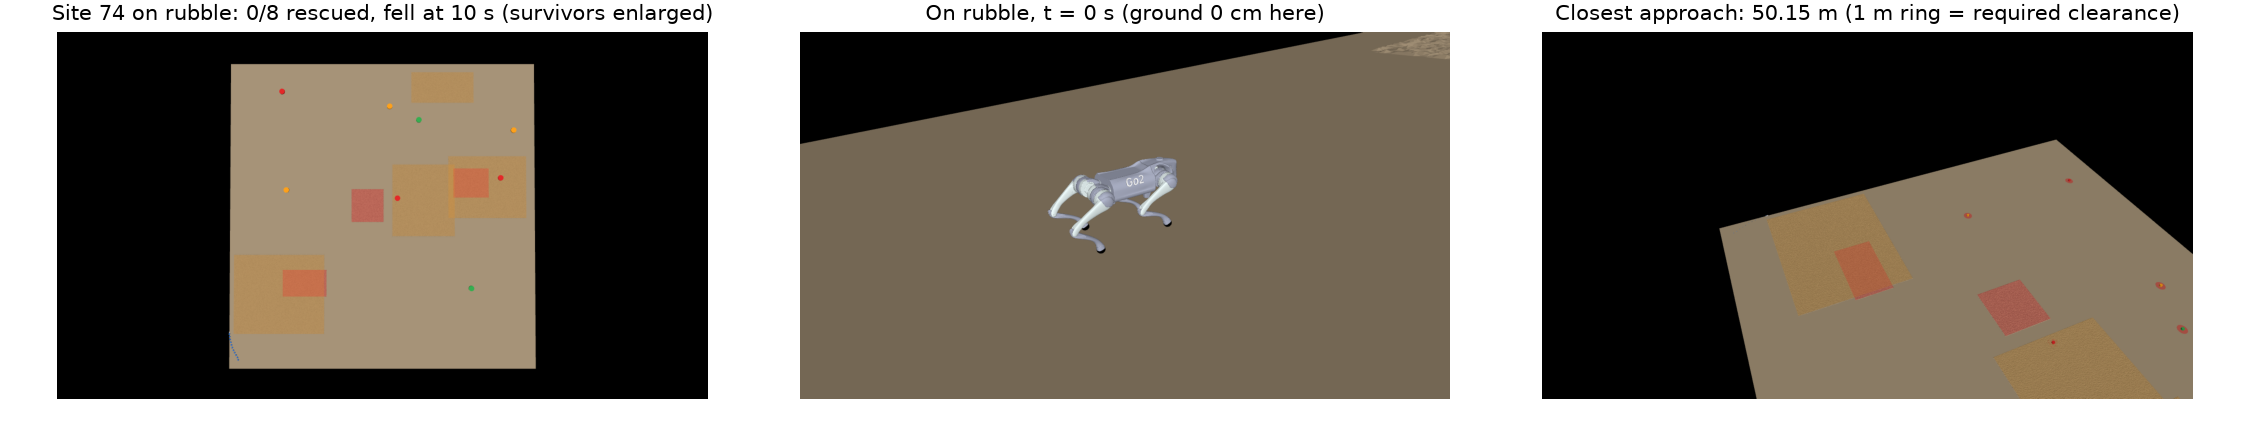
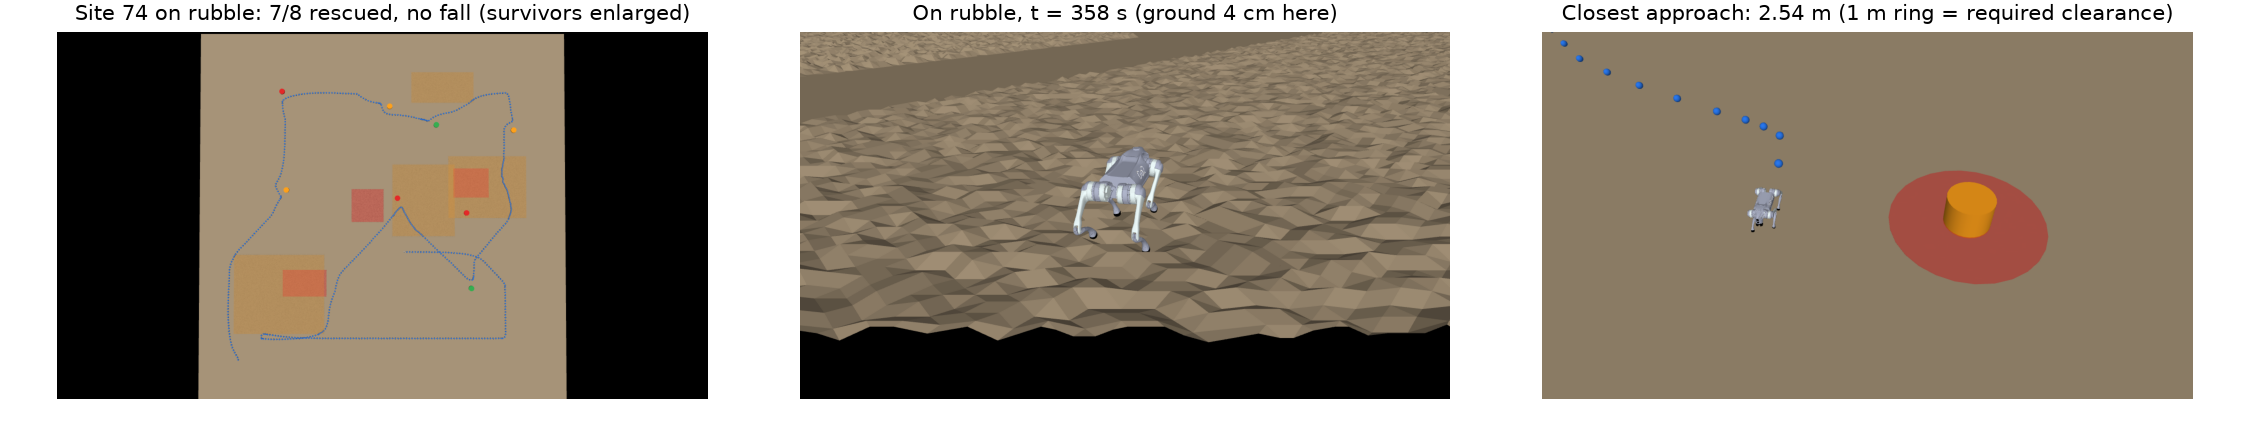
Replace the 40-site rubble results with the 100-site rerun after fixing the heightfield edge

diff --git a/README.md b/README.md
@@ -589,22 +589,28 @@ Until here the Go2 walked on a flat plane and rubble was only a speed cap in the
 | Hazard | flat-trained | 34 / 200 | 0.426 m | 0.847 m | 0.952 m |
 | Hazard | rough-trained | 9 / 200 | 0.284 m | 0.801 m | 0.920 m |
 
-**Table 20.** Q3 on rubble (`scripts/mj_run_q3_rubble.py`, 40 sites, sigma_meas 0.5 m, confidence 0.7, pad 0.25 m; an episode ends when the robot falls).
+**Table 20.** Q3 on rubble (`scripts/mj_run_q3_rubble.py`, 100 sites, sigma_meas 0.5 m, confidence 0.7, pad 0.25 m; an episode ends when the robot falls).
 
 | Plant | Variant | Score | Rescue rate | Episodes with clearance violation | Min. distance (m) | Falls |
 | --- | --- | --- | --- | --- | --- | --- |
-| Unicycle | full | 0.775 | 0.93 | 0.00 | 2.42 | - |
-| Unicycle | no filter | 0.788 | 0.93 | 0.50 | 0.05 | - |
-| Go2, flat ground | full | 0.717 | 0.93 | 0.00 | 2.41 | 0 |
-| Go2, rubble, flat policy | full | 0.543 | 0.68 | 0.00 | 2.25 | 19 |
-| Go2, rubble, flat policy | no filter | 0.560 | 0.68 | 0.50 | 0.04 | 22 |
-| Go2, rubble, rough policy | full | 0.689 | 0.86 | 0.00 | 2.43 | 6 |
-| Go2, rubble, rough policy | no filter | 0.697 | 0.88 | 0.55 | 0.04 | 6 |
+| Unicycle | full | 0.738 | 0.90 | 0.00 | 2.39 | - |
+| Unicycle | no filter | 0.749 | 0.92 | 0.59 | 0.04 | - |
+| Go2, flat ground | full | 0.674 | 0.91 | 0.00 | 2.41 | 0 |
+| Go2, flat ground | no filter | 0.685 | 0.91 | 0.59 | 0.03 | 0 |
+| Go2, rubble, flat policy | full | 0.558 | 0.71 | 0.00 | 2.35 | 42 |
+| Go2, rubble, flat policy | no filter | 0.552 | 0.70 | 0.49 | 0.03 | 46 |
+| Go2, rubble, rough policy | full | 0.670 | 0.89 | 0.00 | 2.41 | 0 |
+| Go2, rubble, rough policy | no filter | 0.682 | 0.90 | 0.61 | 0.01 | 0 |
 
-- **Safety holds on rubble.** With the filter: no clearance violations and no hazard entries (closest approach 2.43 m with the rough policy); without it 55% of episodes violated.
-- **The flat-trained policy is not enough on rubble:** it fell in 19 of 40 filtered episodes and its 95% tracking error (0.59 m) is more than twice the 0.25 m pad. The rough-trained policy fell in 6 of 40 (95% error 0.36 m, still above the pad). The pad was left at 0.25 m since the filtered episodes had no violations, because the fixed margins keep the robot about 2.4 m from survivors, as in Q3.
-- **Falls are the cost.** Paired by site, the rough-policy Go2 scores 0.086 +/- 0.046 below the unicycle (flat ground: 0.058 +/- 0.017); the filter's own cost is -0.008 +/- 0.013. A fall ends an episode, so falling sites lose their remaining rescues and their safety statistics cover only the time before the fall. Hazard ground is still hard (9 of 200 falls and 0.80 m error) but the filter keeps the robot out of it.
-- This is 40 sites at one noise level and one pad, a first check on rubble.
+- **Safety holds on rubble.** With the filter: no clearance violations and no hazard entries in 100 episodes (closest approach 2.41 m with the rough policy); without it 61% of episodes violated.
+- **The flat-trained policy is not enough on rubble:** it fell in 42 of 100 filtered episodes (rescue rate 0.71) and its 95% tracking error (0.59 m) is more than twice the 0.25 m pad. The rough-trained policy did not fall in any of the 200 episodes. Its 95% tracking error on rubble is 0.36 m, still above the pad; the pad was left at 0.25 m because the filtered episodes had no violations (the fixed margins keep the robot about 2.4 m from survivors, as in Q3).
+- **The Go2 costs the same on rubble as on flat ground.** Paired by site, the rough-policy Go2 scores 0.068 +/- 0.015 below the unicycle (flat ground: 0.064 +/- 0.015; the flat policy on rubble: 0.179 +/- 0.036); the filter's own cost is -0.012 +/- 0.013.
+- **A bug in the first 40-site run.** The heightfield ended at the site bounds and a robot walking past the edge fell off the map, which gave 6 of 40 falls with the rough policy. The terrain now has a 10 m flat margin and the numbers above are from the rerun on 100 sites.
+- This is one noise level and one pad. Hazard ground is still hard (9 of 200 falls and 0.80 m tracking error in Table 19), but the filter keeps the robot out of it.
+
+![Site 74 on rubble](figures/mujoco/go2_rubble_site_074.png)
+
+**Figure 19.** Site 74 on the rubble heightfield with the rough policy (7 of 8 rescued, no fall, closest approach 2.54 m). Left: from above, trail at 1 Hz (rubble and hazard regions drawn translucent over the real terrain). Middle: the robot crossing rubble. Right: closest approach with the 1 m ring.
 
 ### Answer so far
 
@@ -613,11 +619,11 @@ The Q3 safety result carries over to a legged robot with a learned locomotion po
 The abrupt case (an estimate appearing 1.5-6 m ahead of a robot at full speed) is covered by the sudden-threat test above: no violation when the robot keeps re-detecting, but a single bad first sighting can still be unsafe. The Q3 check now also stands on 100 sites (Table 15 and its replication).
 
 **Not yet tested:**
-- rubble at more than 40 sites, several noise levels and a larger pad; fewer falls on rubble (the rough policy still falls in 6 of 40 episodes).
+- rubble at several noise levels and with a larger pad (one level, 0.25 m, so far); hazard ground, which the rough policy still crosses poorly.
 
 ## Limitations
 
-Survivors are a crude stand-in for people: three states, constant-speed motion, a fixed response model, and handling times, decay rates and self-evacuation that are modelling choices. The Q4 triage effect is small (+0.006 +/- 0.004 pooled over 700 sites on the fixed stack, not detectable at 200 sites, and +0.004 +/- 0.004 on the earlier stack) and exists only when the robot is capacity-limited and state sets the handling time; it should not be read as a measured benefit for real triage. Locomotion in the main results is a reduced-order unicycle with a measured tracking-error pad. A full Go2 model with a learned policy has been added in MuJoCo (not Isaac Sim, as proposed) and checked for Q3 only, on 100, 40 and 20 sites, on flat ground with rubble kept as a speed cap, plus a 40-site check on a rubble heightfield with a policy retrained on rough terrain, where the filter still gave zero violations but the robot fell in 6 of 40 episodes (see above). Two stack fixes made for it (routing around safety regions, letting confirmed tracks fade) are reflected in Tables 6-11, which were rerun on the fixed stack (the Q4 ablation panels and Table 12 were not). The track-retention gain is shown in the Q1-Q2 simulator only and did not carry over to the closed-loop stack (it is off by default there). Priority ordering was null across a grid of horizons and survivor counts, so its small gain is not explained by T being long. Detections are matched to tracks with a wide gate, so two nearby survivors can share one track and one of them can be lost when the other is rescued. The drone detector is parametric noise, not image-derived. The oracle for Q3-Q4 uses survivors' initial positions. The lower-confidence safety result (zero violations at 0.5-0.7) depends on the 1 m clearance and the fixed margins and was checked at three confidence levels and two noise levels, not at every setting. The Q5 observers are simulated people (the learned one is trained on synthetic walkers), not human subjects.
+Survivors are a crude stand-in for people: three states, constant-speed motion, a fixed response model, and handling times, decay rates and self-evacuation that are modelling choices. The Q4 triage effect is small (+0.006 +/- 0.004 pooled over 700 sites on the fixed stack, not detectable at 200 sites, and +0.004 +/- 0.004 on the earlier stack) and exists only when the robot is capacity-limited and state sets the handling time; it should not be read as a measured benefit for real triage. Locomotion in the main results is a reduced-order unicycle with a measured tracking-error pad. A full Go2 model with a learned policy has been added in MuJoCo (not Isaac Sim, as proposed) and checked for Q3 only, on 100, 40 and 20 sites, on flat ground with rubble kept as a speed cap, plus a 100-site check on a rubble heightfield with a policy retrained on rough terrain, with zero violations and no falls (see above). Two stack fixes made for it (routing around safety regions, letting confirmed tracks fade) are reflected in Tables 6-11, which were rerun on the fixed stack (the Q4 ablation panels and Table 12 were not). The track-retention gain is shown in the Q1-Q2 simulator only and did not carry over to the closed-loop stack (it is off by default there). Priority ordering was null across a grid of horizons and survivor counts, so its small gain is not explained by T being long. Detections are matched to tracks with a wide gate, so two nearby survivors can share one track and one of them can be lost when the other is rescued. The drone detector is parametric noise, not image-derived. The oracle for Q3-Q4 uses survivors' initial positions. The lower-confidence safety result (zero violations at 0.5-0.7) depends on the 1 m clearance and the fixed margins and was checked at three confidence levels and two noise levels, not at every setting. The Q5 observers are simulated people (the learned one is trained on synthetic walkers), not human subjects.
 
 ## Layout
 

diff --git a/sim.md b/sim.md
@@ -102,7 +102,7 @@ Output lands in `logs/rsl_rl/go2_velocity/<timestamp>/` (checkpoints every 100 i
 
 - 0.1 m cells, one heightfield over the whole 100 m x 100 m site, built in about 0.25 s.
 - Rubble cells: random heights in {0, 2, 4, 6} cm. Hazard cells: {0, ..., 10} cm (the training maximum). Elsewhere flat. Heights are multiples of 2 cm as in training.
-- A 1.5 m disc around the robot start is flat, so the robot starts on level ground.
+- A 1.5 m disc around the robot start is flat, so the robot starts on level ground, and 10 m of flat ground surrounds the site (the plant is not clipped to the site, so a robot that walks off the edge must not fall off the map).
 - The rescue stack still caps speed in these regions (0.5x, 0.25x). The cap is how the planner estimates travel time; the terrain is now additionally physical.
 
 ### Tracking on rubble, flat-trained vs rough-trained policy
@@ -122,24 +122,25 @@ The rough policy cuts falls and tracking error on rubble and costs nothing on fl
 
 ### Q3 on rubble
 
-`scripts/mj_run_q3_rubble.py 40 8` (`runs/mj_q3_rubble.csv`): 40 sites, sigma_meas 0.5 m, confidence 0.7, pad 0.25 m, same sites and drone detections on every plant. An episode ends when the robot falls.
+`scripts/mj_run_q3_rubble.py 100 16` (`runs/mj_q3_rubble.csv`): 100 sites, sigma_meas 0.5 m, confidence 0.7, pad 0.25 m, same sites and drone detections on every plant. An episode ends if the robot falls.
 
 | Plant | Variant | Score | Rescue rate | Episodes with clearance violation | Hazard entries | Min. distance | Falls |
 | --- | --- | --- | --- | --- | --- | --- | --- |
-| Unicycle | full | 0.775 | 0.93 | 0.00 | 0.00 | 2.42 | - |
-| Unicycle | no filter | 0.788 | 0.93 | 0.50 | 0.00 | 0.05 | - |
-| Go2, flat ground | full | 0.717 | 0.93 | 0.00 | 0.00 | 2.41 | 0 |
-| Go2, flat ground | no filter | 0.727 | 0.94 | 0.53 | 0.00 | 0.07 | 0 |
-| Go2, rubble, flat policy | full | 0.543 | 0.68 | 0.00 | 0.00 | 2.25 | 19 |
-| Go2, rubble, flat policy | no filter | 0.560 | 0.68 | 0.50 | 0.00 | 0.04 | 22 |
-| Go2, rubble, rough policy | full | 0.689 | 0.86 | 0.00 | 0.00 | 2.43 | 6 |
-| Go2, rubble, rough policy | no filter | 0.697 | 0.88 | 0.55 | 0.00 | 0.04 | 6 |
+| Unicycle | full | 0.738 | 0.90 | 0.00 | 0.00 | 2.39 | - |
+| Unicycle | no filter | 0.749 | 0.92 | 0.59 | 0.00 | 0.04 | - |
+| Go2, flat ground | full | 0.674 | 0.91 | 0.00 | 0.00 | 2.41 | 0 |
+| Go2, flat ground | no filter | 0.685 | 0.91 | 0.59 | 0.00 | 0.03 | 0 |
+| Go2, rubble, flat policy | full | 0.558 | 0.71 | 0.00 | 0.00 | 2.35 | 42 |
+| Go2, rubble, flat policy | no filter | 0.552 | 0.70 | 0.49 | 0.00 | 0.03 | 46 |
+| Go2, rubble, rough policy | full | 0.670 | 0.89 | 0.00 | 0.00 | 2.41 | 0 |
+| Go2, rubble, rough policy | no filter | 0.682 | 0.90 | 0.61 | 0.00 | 0.01 | 0 |
 
-Paired by site, full stack vs the unicycle: flat ground -0.058 +/- 0.017, rubble with the flat policy -0.233 +/- 0.086, rubble with the rough policy -0.086 +/- 0.046 (rescue rate -0.067 +/- 0.067). The filter's own cost on the rough-policy rubble runs is -0.008 +/- 0.013, within noise.
+Paired by site, full stack vs the unicycle: flat ground -0.064 +/- 0.015, rubble with the flat policy -0.179 +/- 0.036 (rescue rate -0.195 +/- 0.058), rubble with the rough policy -0.068 +/- 0.015 (rescue rate -0.011 +/- 0.019). The filter's own cost on the rough-policy rubble runs is -0.012 +/- 0.013, within noise.
 
-- **Safety holds on rubble.** With the filter there were no clearance violations and no hazard entries in the 40 episodes (closest approach 2.43 m); without it 55% of episodes violated.
-- **Falls are the real cost.** The flat policy fell in 19 of 40 filtered episodes, the rough policy in 6 of 40 (sites 3, 7, 9, 23, 28, 29). A fall ends the episode, so those sites lose their remaining rescues, and the safety numbers cover the part of the episode before the fall. The rough policy is better, not robust.
-- **This is 40 sites, one noise level, one pad.** It is a first check, like the 40-site flat one.
+- **Safety holds on rubble.** With the filter, 0 clearance violations and 0 hazard entries in 100 episodes with the rough policy (closest approach 2.41 m); without it 61% of episodes violated.
+- **The rough-trained policy is what makes rubble workable.** It did not fall in any of 200 episodes and its score sits where flat ground does (the gap to the unicycle is the same, about 0.065, as on flat ground). The flat-trained policy fell in 42 of 100 filtered episodes.
+- **An earlier 40-site run had a bug and is superseded.** The heightfield ended exactly at the site bounds, so a robot that walked past the edge fell off the map (the old flat plane was infinite); that produced 6 of 40 falls with the rough policy. The heightfield now has 10 m of flat margin (`mj_terrain.MARGIN`). The flat policy's 42 falls are mostly terrain: the rough policy, on the same paths, had none.
+- **One noise level, one pad.** sigma_meas 0.5 m and a 0.25 m pad; the rubble tracking error (0.36 m at 95%) is above the pad, but the fixed margins keep the robot about 2.4 m from survivors.
 
 ## Scripts
 
@@ -166,6 +167,6 @@ PYTHONPATH=. python scripts/mj_rubble_calibrate.py --n 200 --policy sim/go2/poli
 - [x] Rough policy trained (3000 iterations) and exported to `sim/go2/policy_rough.onnx`
 - [x] Rubble calibration with both policies; `eps_track` left at 0.25 m
 - [x] Q3 on rubble (`mj_run_q3_rubble.py`), README, writeup and slides updated
-- [ ] Larger rubble check (100 sites, several noise levels) and a pad of 0.35-0.40 m to see whether it removes any margin issues
-- [ ] Fewer falls: train longer or on rubble-matched terrain (rubble cells here are harsher than most training tiles)
-- [ ] Re-render the Go2 figures with visible rubble (`render_mj.py`)
+- [x] 100-site rubble check (`runs/mj_q3_rubble.csv`) and the rubble render (`scripts/render_mj_rubble.py`, `figures/mujoco/go2_rubble_site_074.png`)
+- [ ] Several noise levels and a larger pad (0.35-0.40 m) on rubble
+- [ ] Hazard ground is still hard (9 of 200 falls and 0.80 m tracking error in the calibration); it only matters if the planner ever sends the robot there
